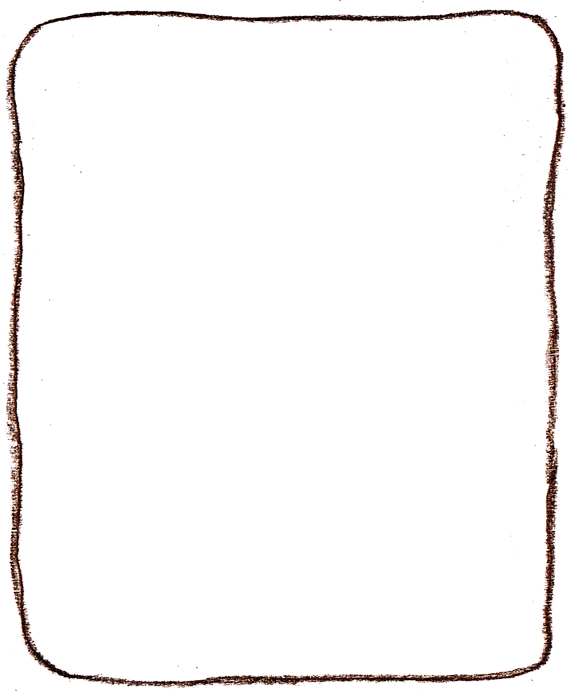
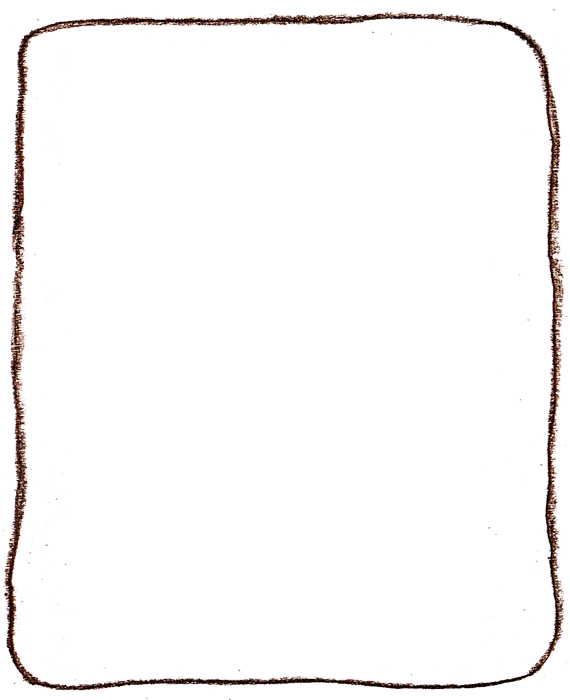
Adjust frame

Changed region(s): [[0.0, 0.0, 1.0, 0.99]]

diff --git a/gachoa-theme/static/css/assets/_intro.scss b/gachoa-theme/static/css/assets/_intro.scss
@@ -41,16 +41,16 @@
           background-image: url('../img/landscape-frame.png');
           img.small {
             display: inline-block;
-            width: 85%;
-            height: 82%;
-            margin: 18px 23px;
+            width: 87%;
+            height: 87%;
+            margin: 12px 23px;
           }
         }
         img.big {
           display: block;
           width: 85%;
-          height: 85%;
-          margin: 25px 20px;
+          height: 91%;
+          margin: 20px 18px;
         }
       }
 

diff --git a/gachoa-theme/static/css/assets/_main_gallery.scss b/gachoa-theme/static/css/assets/_main_gallery.scss
@@ -20,9 +20,9 @@
         background-image: url('../img/landscape-frame.png');
         img.big {
           display: block;
-          width: 85%;
-          height: 85%;
-          margin: 27px 30px;
+          width: 86%;
+          height: 89%;
+          margin: 19px 32px;
         }
       }
 
